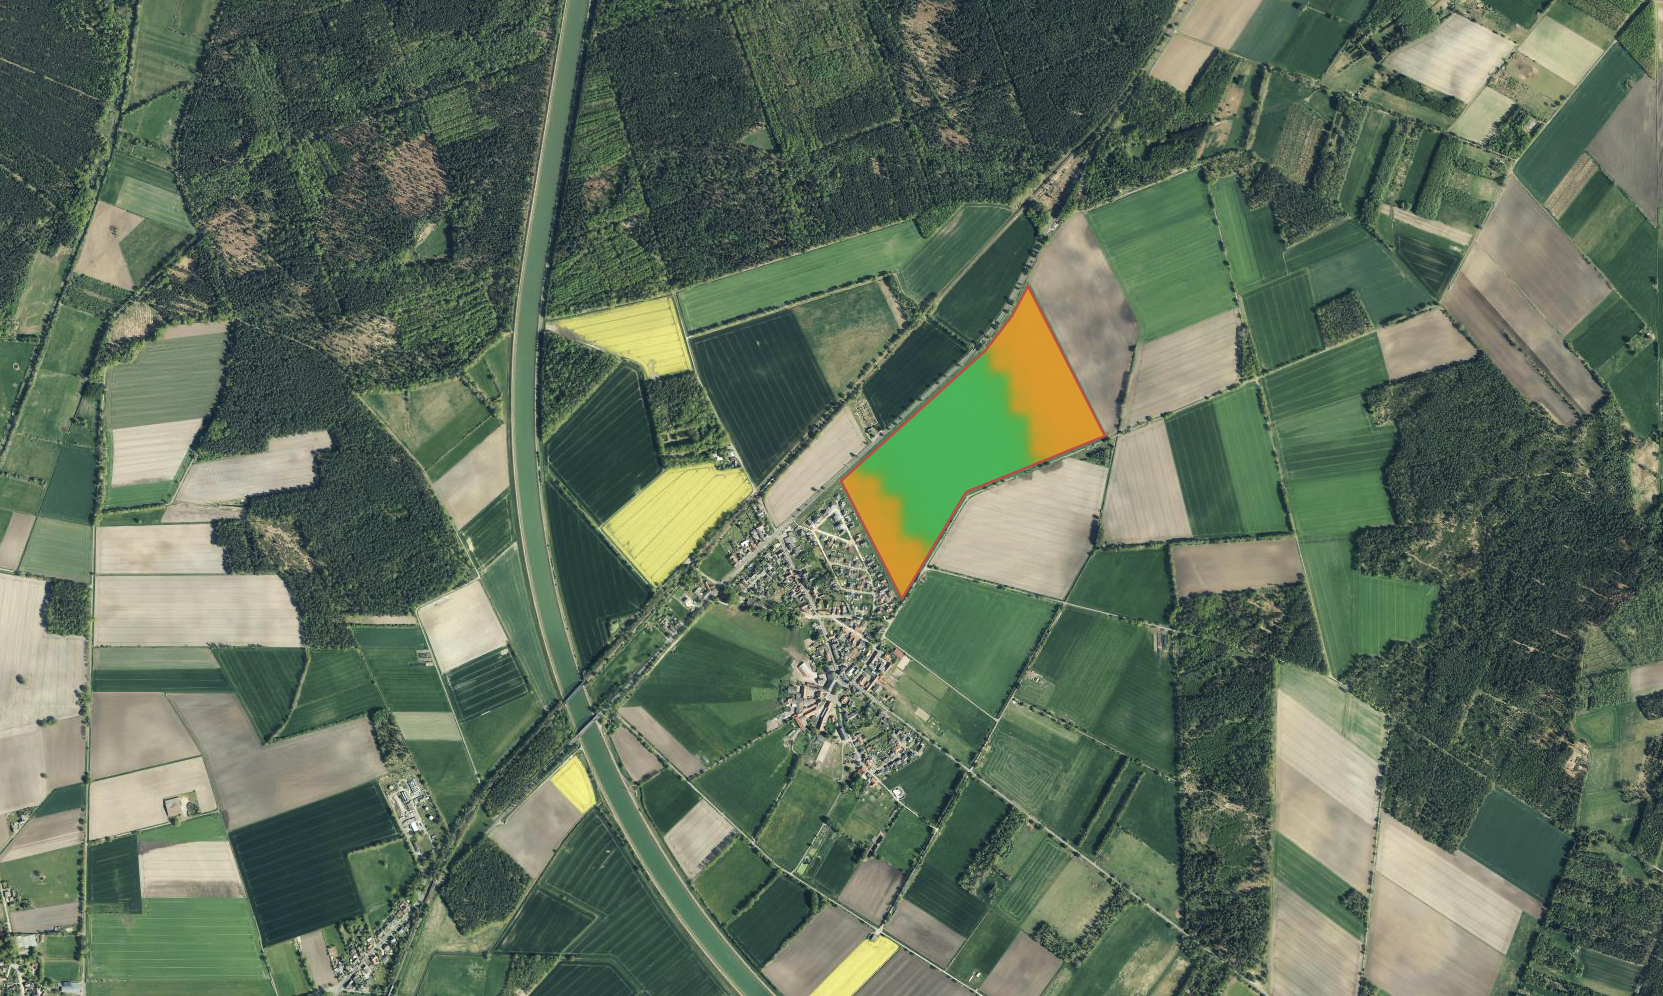
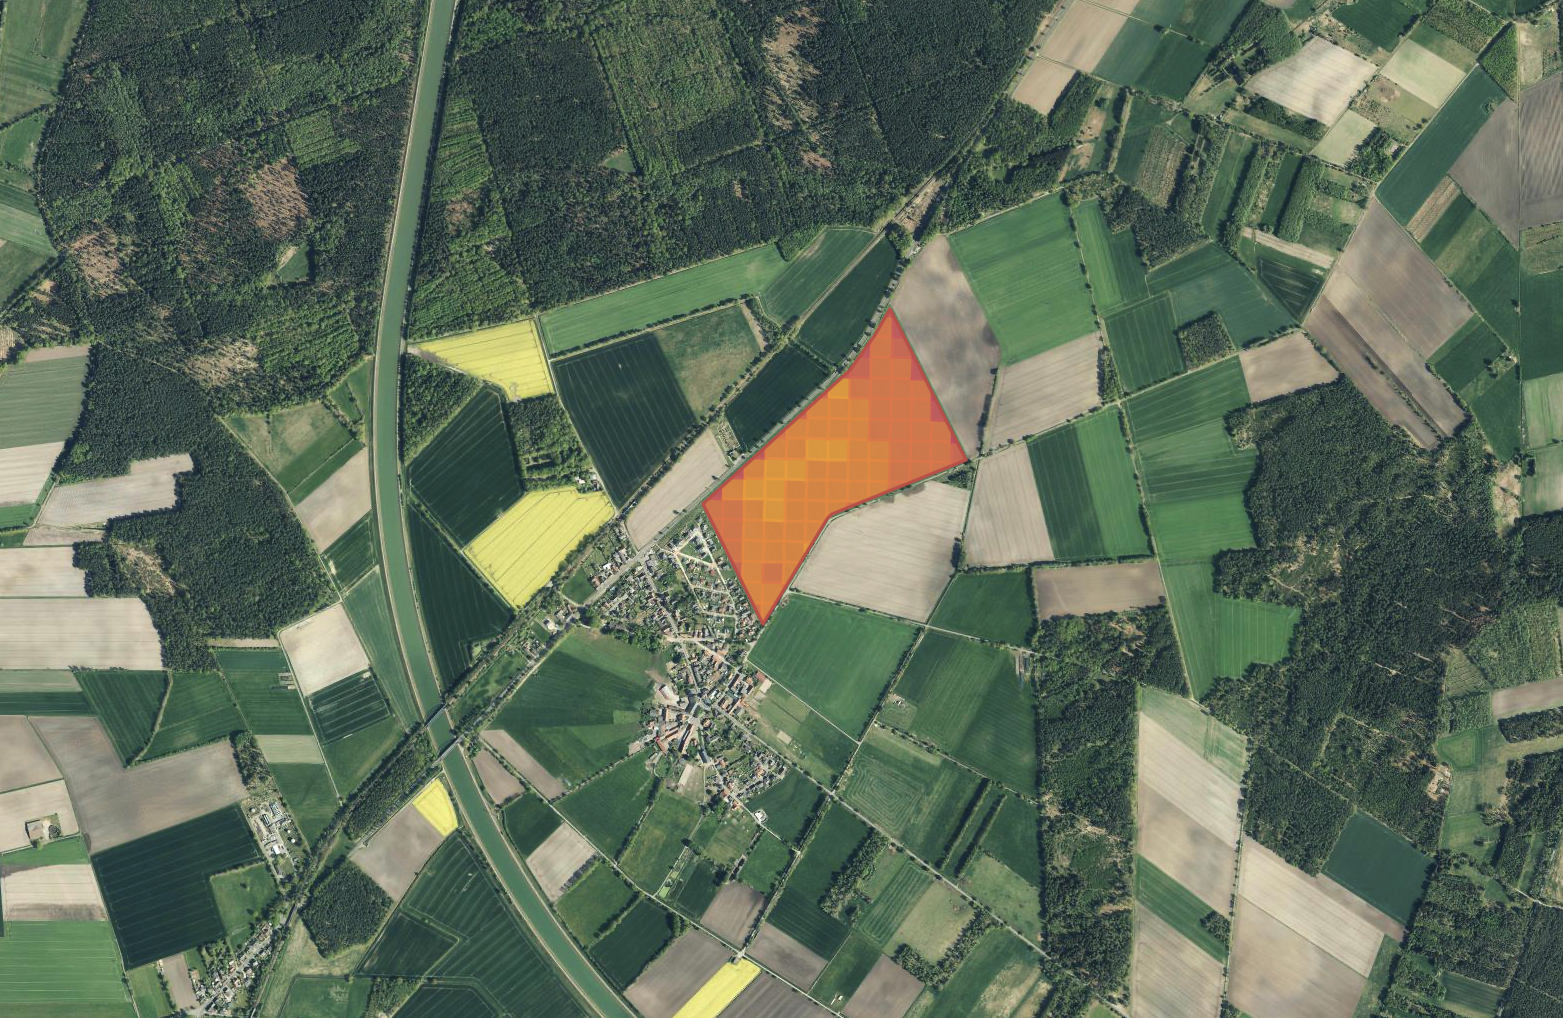
how to finalized and hauptbild replaced

diff --git a/backend/frontend/templates/pages/how_to.html b/backend/frontend/templates/pages/how_to.html
@@ -124,7 +124,7 @@
         <h3>Save your results</h3>
       </div>
       <div class="howto-detail-body">
-        <p>You can save your results by clicking the <strong>Save</strong> button in the sidebar. This stores your analysis (including the polygon and summary statistics) so you can view and compare it later in your Personal Dashboard.</p>
+        <p>You can save your results by clicking the <strong>Save</strong> button in the sidebar. Furhter down is a complete step-by-step guide on how to use the personal dashboard.</p>
         <p style="margin-top:12px;">To start again, click the  <strong>Reset</strong> button to clear all layers and draw a new polygon.</p>
       </div>
     </div>
@@ -132,57 +132,117 @@
 
   <!-- Saving & managing fields -->
   <section class="about-section">
-    <div class="section-eyebrow">Data management</div>
+    <div class="section-eyebrow">Personal Dashboard</div>
     <h2 class="section-title">Saving fields & managing your analyses</h2>
 
-    <p style="font-size:0.85rem;color:var(--text-dim);line-height:1.85;max-width:720px;margin-bottom:12px;">
-      Once an analysis has finished on the map, you can store it in your <strong>Personal Dashboard</strong>. Each entry is one complete run: your field polygon, the analysis date, every 60 m zone with its predicted SOC (g/kg), and the summary min, average, and max values.
-    </p>
     <p style="font-size:0.85rem;color:var(--text-dim);line-height:1.85;max-width:720px;margin-bottom:32px;">
-      If you analyse the same parcel again later, save the new run under the <strong>same field name</strong>. AgroScan will group those runs together so you can track development over time, filter your history, and compare fields side by side.
+      Once an analysis has finished on the map, you can store it in your <strong>Personal Dashboard</strong>. Each saved run keeps your field polygon, the analysis date, every 60 m zone with its predicted SOC (g/kg), and the summary min, average, and max values. Analyses with the <strong>same field name</strong> are grouped together so you can track development over time. The walkthrough below follows a typical path through the dashboard, from saving on the Analysis page to comparing fields and exporting data.
     </p>
 
-    <div class="howto-steps-grid howto-dash-grid" style="margin-top:0;">
-      <div class="howto-step-card">
-        <div class="howto-step-icon">💾</div>
-        <h3>Save from Analysis</h3>
-        <p>When your zone map is ready, the sidebar shows <strong>Save to Personal Dashboard</strong>. A short form opens where you enter a field name (required for grouping), plus optional location, crop, and notes. Confirm to store the run — you do not need to repeat the analysis to view it again later.</p>
+    <!-- Step 1 -->
+    <div class="howto-detail">
+      <div class="howto-detail-header">
+        <div class="howto-detail-num">Step 1</div>
+        <h3>Save your analysis from the map</h3>
       </div>
-
-      <div class="howto-step-card">
-        <div class="howto-step-icon">🗃</div>
-        <h3>What gets stored</h3>
-        <p>Besides your labels, AgroScan keeps the polygon geometry, analysis date, all zone polygons with SOC values and colour tiers, and the field-level min, average, and max in g/kg. That is enough to rebuild charts in the dashboard and export rows to CSV without re-running the model.</p>
-      </div>
-
-      <div class="howto-step-card">
-        <div class="howto-step-icon">📂</div>
-        <h3>Dashboard overview</h3>
-        <p>The <strong>Saved Analyses</strong> list is organised by field name: one card per field, with a badge for how many runs you have. Each card shows the date span, crop and location if you added them, the latest average SOC, and a small trend indicator when several dates exist. Use the filter bar to narrow by name, crop, or from/to date, and <strong>Reset</strong> to show everything again.</p>
-      </div>
-
-      <div class="howto-step-card">
-        <div class="howto-step-icon">📈</div>
-        <h3>Field history &amp; charts</h3>
-        <p>Click any field card to open its history. You will see how many analyses are stored, all-time minimum and maximum SOC, the latest average, and a line chart of min, average, and max across dates for that field only. Below the chart, every single run is listed with its date and summary values.</p>
-      </div>
-
-      <div class="howto-step-card">
-        <div class="howto-step-icon">✏</div>
-        <h3>One analysis at a time</h3>
-        <p>From the field history, open <strong>Details</strong> on a run to adjust field name, location, crop, or notes, then <strong>Save Changes</strong>. A bar chart shows that run’s min, average, and max. Use <strong>⬇</strong> to download that analysis as CSV, or <strong>Delete</strong> to remove it. <strong>+ New Analysis</strong> takes you back to the map where you can analyse the same field again.</p>
-      </div>
-
-      <div class="howto-step-card">
-        <div class="howto-step-icon">⚖</div>
-        <h3>Compare &amp; export all</h3>
-        <p>At the top of the dashboard, <strong>Download All</strong> exports every saved run in one CSV file. To compare different fields, tick <strong>Select for comparison</strong> on at least two field cards and press <strong>Compare Fields</strong> — a chart plots average SOC over time, one line per field. This works best when each field name refers to one real parcel.</p>
+      <div class="howto-detail-body">
+        <p>When your zone map is ready, click <strong>Save to Personal Dashboard</strong> in the Analysis sidebar. A form opens where you enter:</p>
+        <ol class="howto-list">
+          <li><strong>Field name</strong> (required) — use a consistent name for each real parcel so later runs are grouped together.</li>
+          <li><strong>Location</strong>, <strong>crop</strong>, and <strong>notes</strong> (optional) — these appear on your field cards and help with filtering.</li>
+        </ol>
+        <p style="margin-top:16px;">Click <strong>Save Analysis</strong> to store the run. A confirmation appears with a link to the Personal Dashboard. You do not need to re-run the model to view the results again later.</p>
       </div>
     </div>
 
-    <div class="howto-tip" style="margin-top:28px;">
+    <!-- Step 2 -->
+    <div class="howto-detail">
+      <div class="howto-detail-header">
+        <div class="howto-detail-num">Step 2</div>
+        <h3>Open the dashboard and read the summary</h3>
+      </div>
+      <div class="howto-detail-body">
+        <p>Go to <strong>Personal Dashboard</strong> via the top navigation or the link in the save confirmation. At the top you will see five summary cards:</p>
+        <ol class="howto-list">
+          <li><strong>Total Fields</strong> — how many distinct field names you have saved.</li>
+          <li><strong>Total Analyses</strong> — the total number of individual analysis runs.</li>
+          <li><strong>Average Field</strong> — the mean of each field's latest average SOC.</li>
+          <li><strong>Best Field</strong> and <strong>Worst Field</strong> — the fields with the highest and lowest latest average SOC. Click either card to jump straight to that field's history.</li>
+        </ol>
+      </div>
+    </div>
+
+    <!-- Step 3 -->
+    <div class="howto-detail">
+      <div class="howto-detail-header">
+        <div class="howto-detail-num">Step 3</div>
+        <h3>Sort, filter, and scan your field list</h3>
+      </div>
+      <div class="howto-detail-body">
+        <p>Below the summary, the control bar lets you organise the list before you open any field:</p>
+        <ol class="howto-list">
+          <li>Use <strong>Sort ▾</strong> to reorder fields by latest OC, best OC, worst OC, or most improved over time.</li>
+          <li>Open <strong>Filters ▾</strong> to narrow the list by field name, crop, or date range. Click <strong>✕ Reset</strong> inside the filter panel to clear all filters.</li>
+          <li>Each field row shows its number, name, date span, crop and location (if set), how many analyses are stored, a small <strong>OC over time</strong> sparkline, and the <strong>Latest Avg OC</strong> with trend indicators (<strong>All-time</strong> and <strong>vs. prev.</strong>).</li>
+          <li>Click <strong>Click to explore ›</strong> on a row to open that field's full history — the rest of the row is for sorting and comparison, not for opening the field.</li>
+        </ol>
+      </div>
+    </div>
+
+    <!-- Step 4 -->
+    <div class="howto-detail">
+      <div class="howto-detail-header">
+        <div class="howto-detail-num">Step 4</div>
+        <h3>Explore a field's history</h3>
+      </div>
+      <div class="howto-detail-body">
+        <p>The field panel opens when you click <strong>Click to explore ›</strong> or a best/worst field chip in the summary. It shows:</p>
+        <ol class="howto-list">
+          <li>Field name, location, and crop at the top.</li>
+          <li>Four stats: number of analyses, field area (ha), number of grid data points, and latest average SOC.</li>
+          <li>A line chart of <strong>OC Development over Time</strong> with minimum, average, and maximum values for each analysis date.</li>
+          <li>An <strong>All Analyses</strong> list — newest first — with min, avg, and max badges per run, plus action buttons for each entry.</li>
+        </ol>
+        <p style="margin-top:16px;">From this list you can open <strong>Details</strong> for one run, download it with <strong>⬇</strong>, or remove it with <strong>Delete</strong>. Use <strong>+ New Analysis</strong> at the bottom to analyse the same parcel again on a new date (the polygon and metadata are prefilled on the Analysis page).</p>
+      </div>
+    </div>
+
+    <!-- Step 5 -->
+    <div class="howto-detail">
+      <div class="howto-detail-header">
+        <div class="howto-detail-num">Step 5</div>
+        <h3>View or edit a single analysis</h3>
+      </div>
+      <div class="howto-detail-body">
+        <p>Click <strong>Details</strong> on any run in the field history to open the analysis panel. Here you can:</p>
+        <ol class="howto-list">
+          <li>Edit <strong>field name</strong>, <strong>location</strong>, <strong>crop</strong>, and <strong>notes</strong>. Renaming a field moves the run to a different group in the dashboard.</li>
+          <li>Review the analysis date (read-only) and the run's minimum, average, and maximum SOC.</li>
+          <li>Inspect the <strong>Field Map — Soil Quality Zones</strong>: a satellite mini-map with the saved polygon and colour-coded 60 m zones, the same view you had on the Analysis page.</li>
+          <li>Click <strong>Save Changes</strong> to update metadata, or <strong>Close</strong> to dismiss without saving.</li>
+        </ol>
+      </div>
+    </div>
+
+    <!-- Step 6 -->
+    <div class="howto-detail" style="border-bottom:none;padding-bottom:0;">
+      <div class="howto-detail-header">
+        <div class="howto-detail-num">Step 6</div>
+        <h3>Compare fields and export data</h3>
+      </div>
+      <div class="howto-detail-body">
+        <p>Back on the main dashboard view, you can work across several fields at once:</p>
+        <ol class="howto-list">
+          <li>Tick <strong>Select for comparison</strong> on at least two field rows, then click <strong>⚖ Compare Fields</strong>. A chart appears above the list plotting each field's average SOC over time as a separate line.</li>
+          <li>Click <strong>✕ End Comparison</strong> to hide the chart and clear your selection.</li>
+          <li>Click <strong>⬇ Download All</strong> to export every saved analysis in one CSV file, or use the <strong>⬇</strong> button on an individual run inside a field's history for a single-analysis export.</li>
+        </ol>
+      </div>
+    </div>
+
+    <div class="howto-tip" style="margin-top:25px;">
       <span class="howto-tip-label">📌 Tip</span>
-      <p>Use a consistent field name for each physical parcel and save after every new analysis date. That way your timeline and comparison charts reflect real changes on the ground — for example after irrigation, reduced tillage, or cover crops.</p>
+      <p>Use a consistent field name for each physical parcel and save after every new analysis date. That way your sparklines, timeline charts, and field comparison reflect real changes on the ground, for example after irrigation, reduced tillage, or cover crops.</p>
       <a class="btn-primary" href="/personal_dashboard">→ Go to Personal Dashboard</a>
     </div>
   </section>

diff --git a/backend/frontend/templates/pages/index.html b/backend/frontend/templates/pages/index.html
@@ -91,7 +91,7 @@
         It utilized only free, publicly available data and is fully open-source making it easy to customize to your own use case. Curious? Read our report or checkout our GitHub repository. </p>
       <div class="showcase-btn-row">
         <a class="btn-outline" href="/report">→ Read our report</a>
-        <a class="btn-outline" href="https://github.com/mbreitenhuber/soil_health_monitoring">→ Checkout our GitHub repo</a>
+        <a class="btn-outline" href="https://github.com/mbreitenhuber/soil_health_monitoring" target="_blank" rel="noopener noreferrer">→ Checkout our GitHub repo</a>
       </div>
     </div>
     <div class="img-placeholder img-placeholder--media" style="aspect-ratio:4/3;border-radius:10px;">
